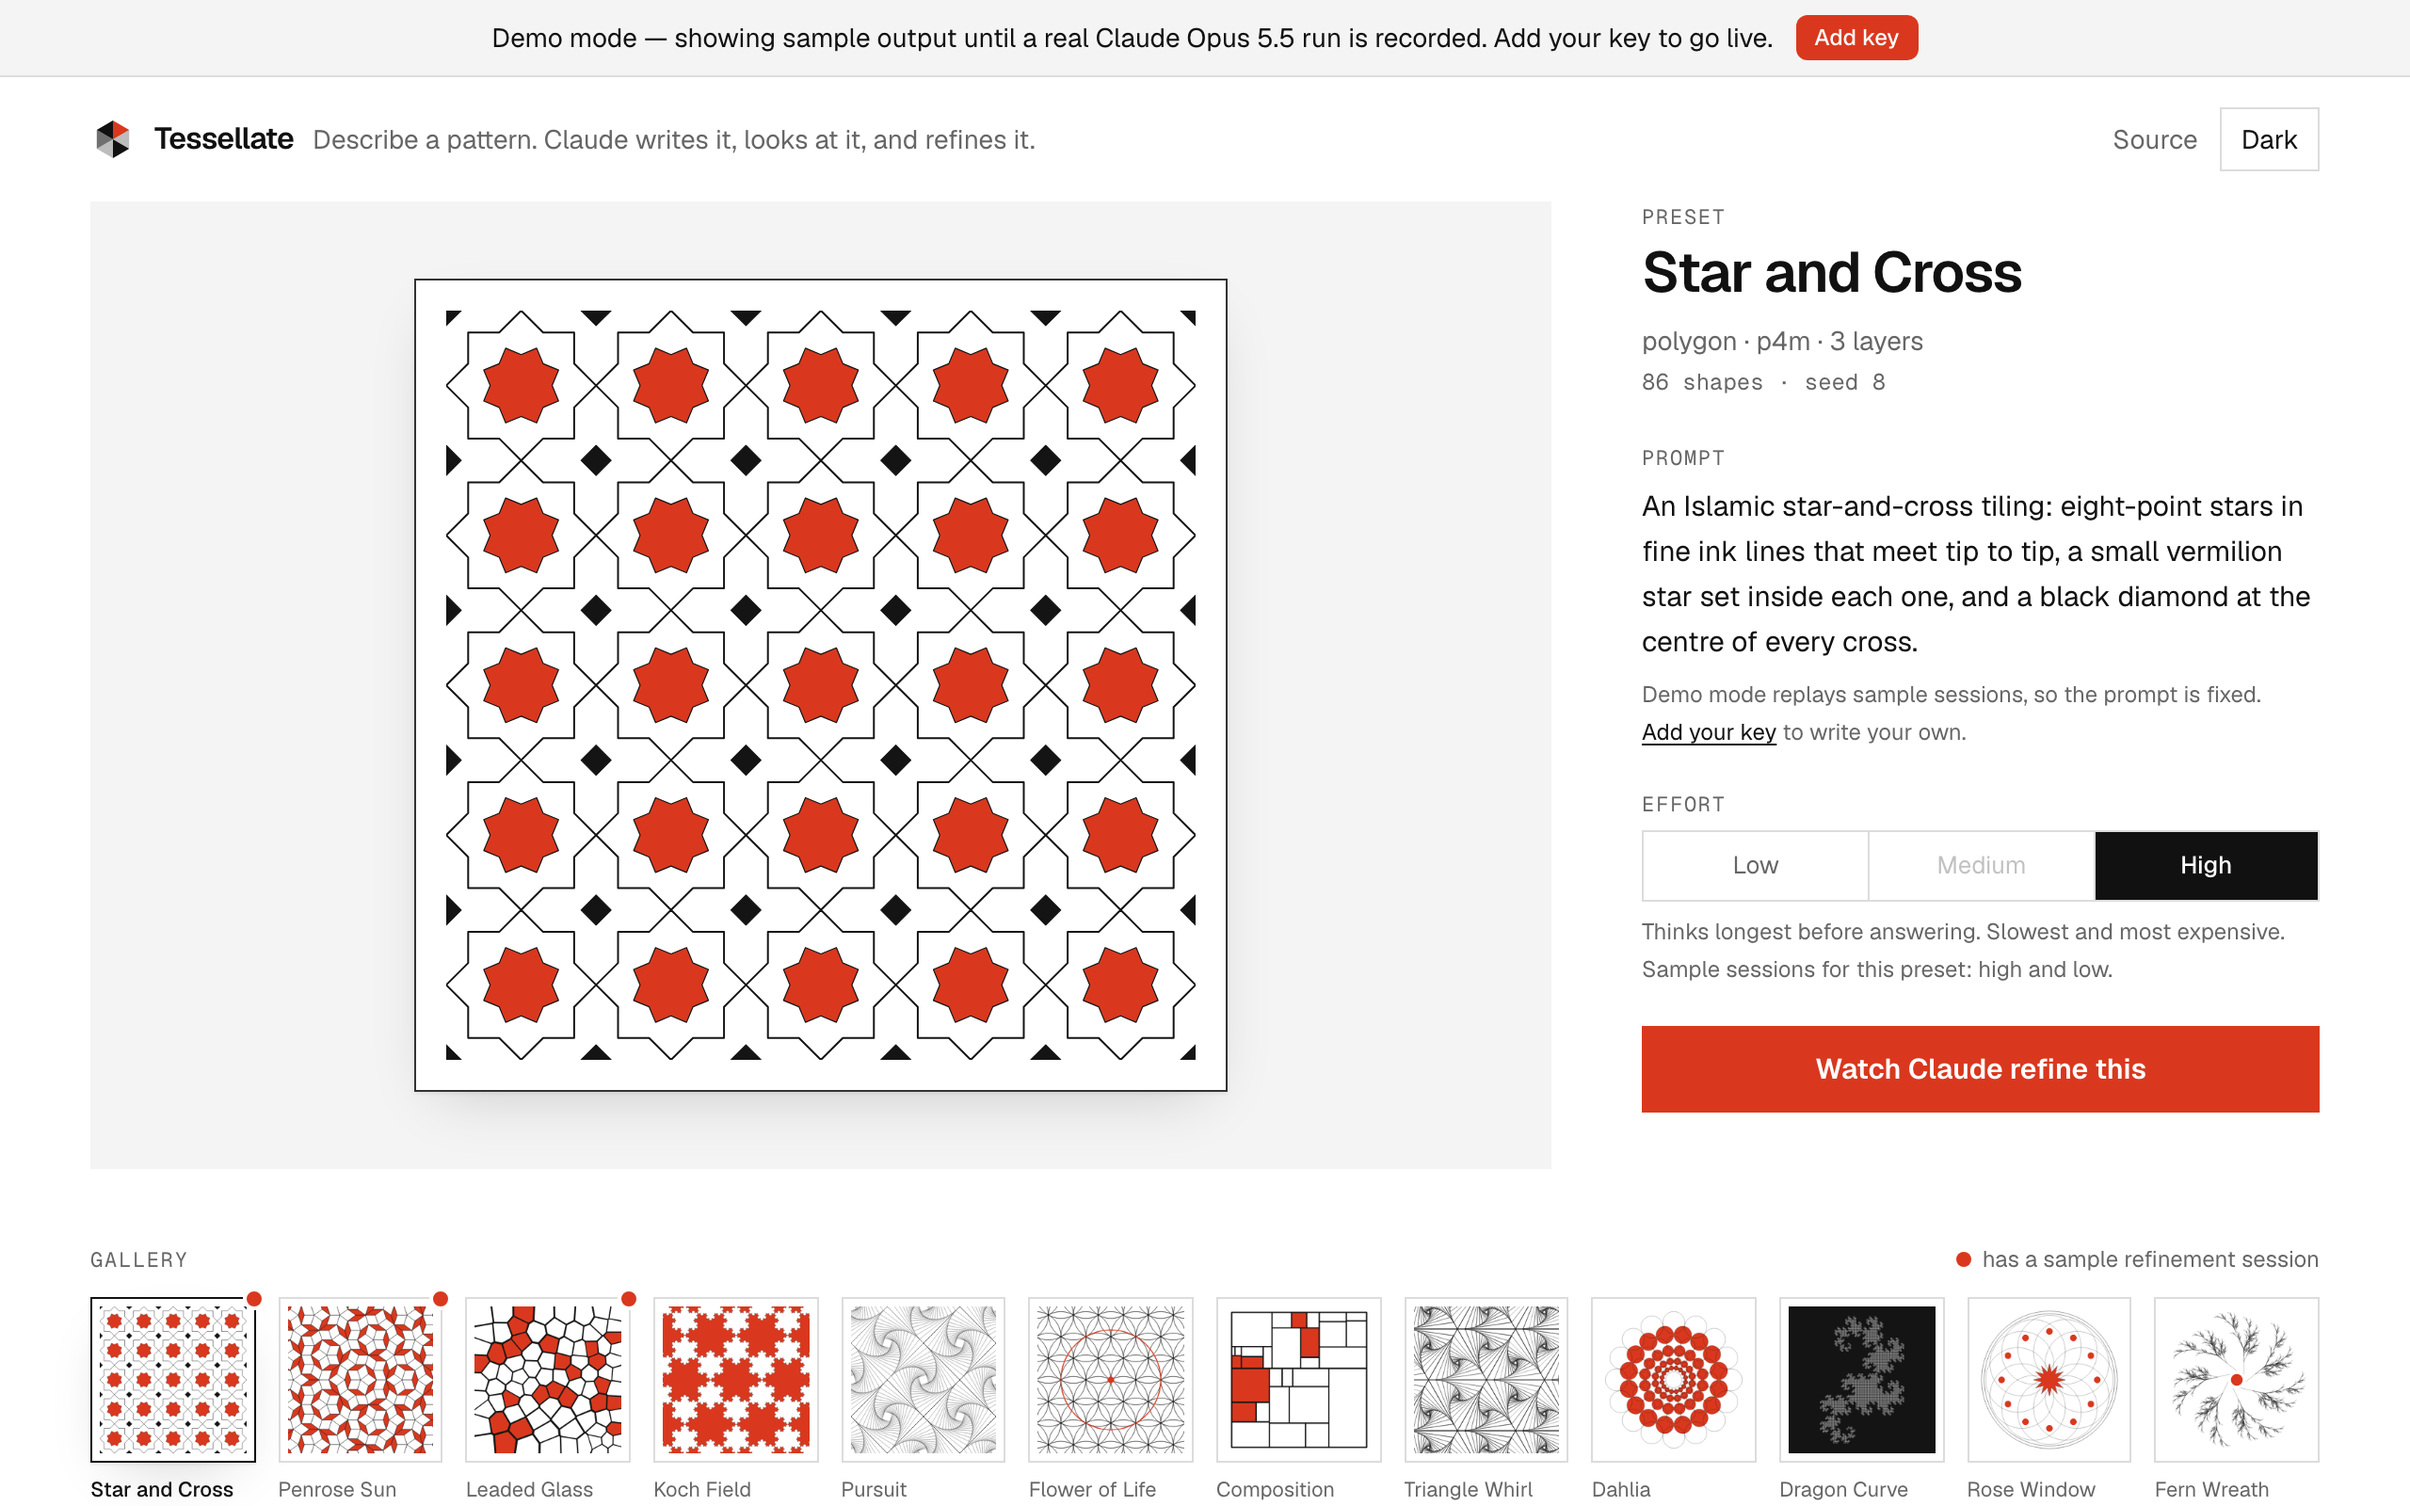
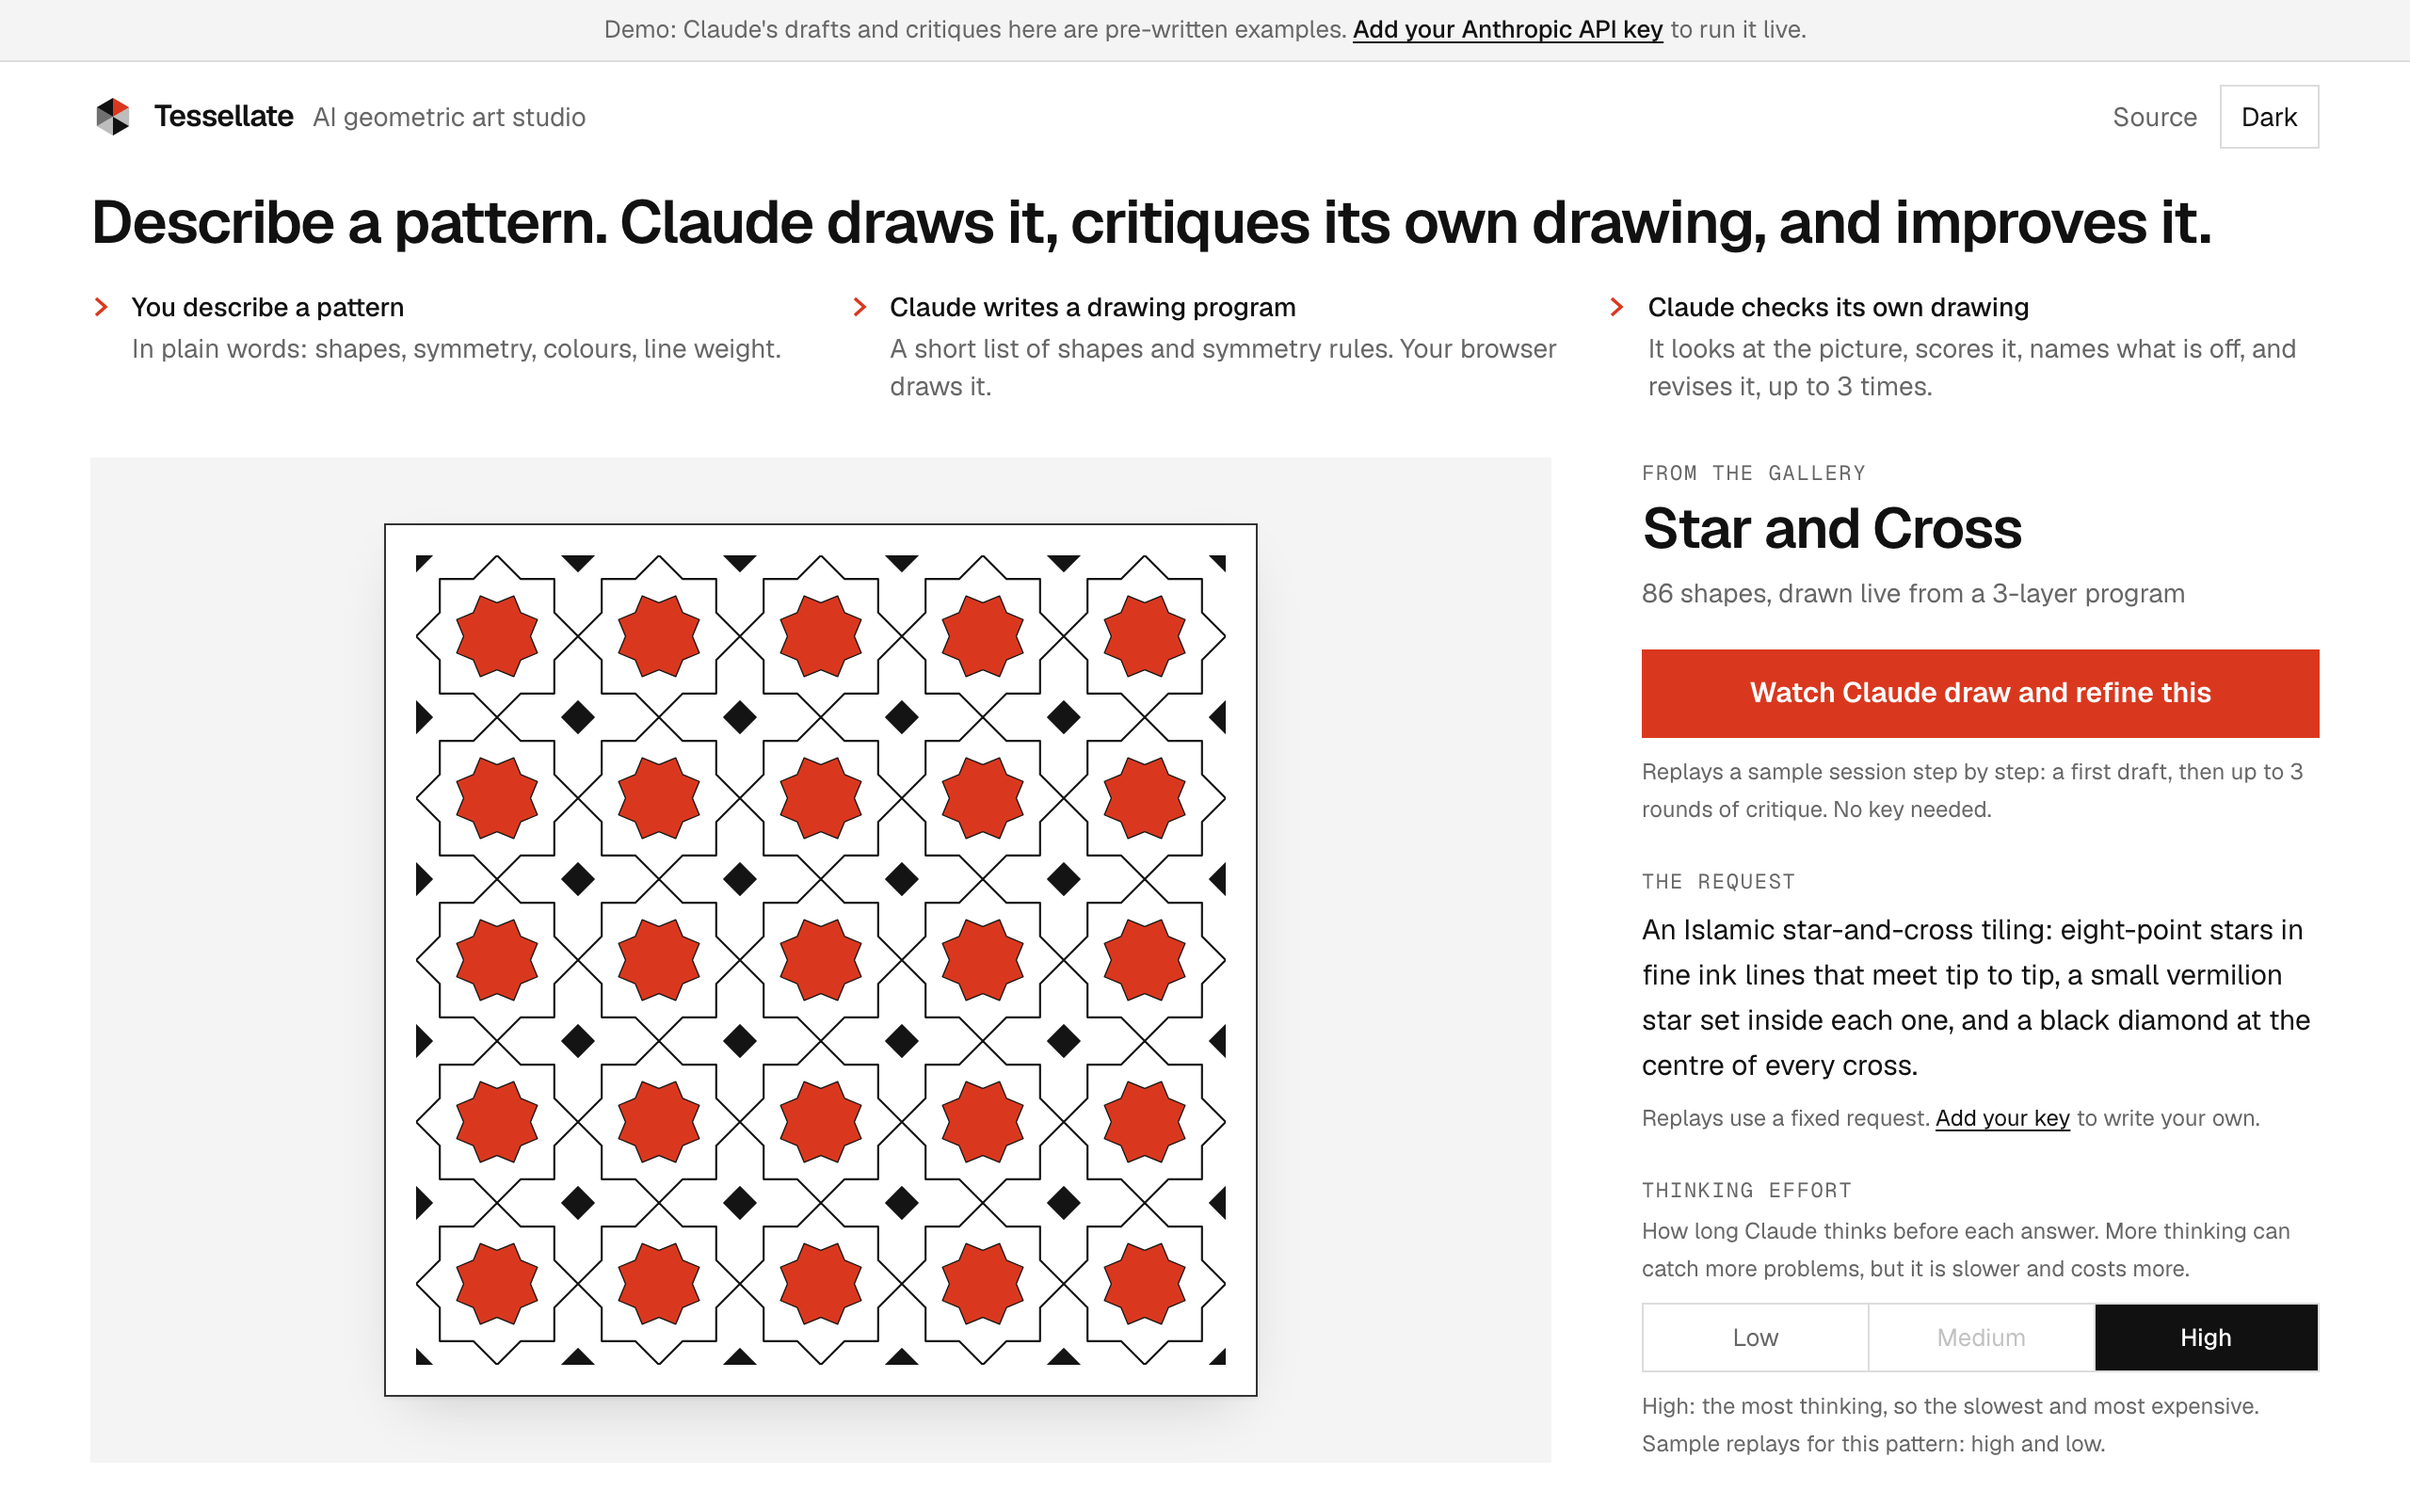
docs: plain-English README top, no dead demo links, retaken screenshots
The README now opens with a plain pitch, the "Live demo: coming soon"
badge (linking to Run locally) in place of the undeployed vercel.app
links, a captioned hero of a finished replay, and a short "What it does".
"Try it" shows the GIF and the local commands. The phone-fold limitation
is removed because it is fixed, and two engineering lines are made exact
(the match score is the model's judgement; the cost line shows dollars and
tokens). All screenshots and the GIF are retaken.

Changed region(s): [[0.0312, 0.0625, 0.9688, 1.0], [0.2188, 0.0, 0.8125, 0.0625], [0.875, 0.0625, 0.9688, 0.125]]

diff --git a/README.md b/README.md
@@ -1,26 +1,42 @@
 # Tessellate
 
-> Describe a pattern in words. Claude Opus 5.5 writes it in a small geometry language, the app renders it, Claude looks at the render, and revises the program until it matches.
+Describe a pattern in words, and Claude turns it into geometric art: it writes the pattern as a small drawing program, looks at the picture it made, critiques it, and improves it.
 
 [![CI](https://github.com/davezagin-max/tessellate/actions/workflows/ci.yml/badge.svg)](https://github.com/davezagin-max/tessellate/actions/workflows/ci.yml)
 [![License: MIT](https://img.shields.io/badge/license-MIT-blue.svg)](LICENSE)
-[![Live demo](https://img.shields.io/badge/demo-live-brightgreen.svg)](https://tessellate.vercel.app)
+[![Live demo: coming soon](https://img.shields.io/badge/live%20demo-coming%20soon-lightgrey.svg)](#run-locally)
 
-![A refinement session in Tessellate: first draft, two revisions, and the critique and score for each](docs/hero.png)
+![Tessellate after one click: the headline and three steps at the top, then a first draft and two revisions side by side, each with a match score out of 10 and a list of what matches and what is off](docs/hero.png)
 
-![The session replaying step by step](docs/demo.gif)
+*One click on the first screen replays a session. Each column is one drawing with its match score: the first draft scores 4/10 (the stars float apart, and there are no black diamonds); two rounds of critique and revision later, it scores 9/10. This replay is a hand-written sample (see below); the drawings are real.*
 
-## Try it in 10 seconds
+## What it does
 
-**[Open the live demo](https://tessellate.vercel.app)**: no key, no sign-up. A preset is already drawn. Press **Watch Claude refine this** to replay a session: a first draft, then up to three reviews side by side, each with a score, what matches, what is off, and the exact changes made to the program. Then pick any of the 12 presets, drag a slider, and download a plotter-ready SVG.
+- **Turns a sentence into a drawing.** You describe a pattern, for example "eight-point stars in fine ink lines that meet tip to tip". Claude writes it as a short drawing program (shapes, symmetry, colours), and your browser draws it as crisp vector art.
+- **Checks its own work.** The app turns each drawing into a picture and shows it to Claude next to the original request. Claude scores how well it matches, lists what is off, and revises the program, up to three times.
+- **Lets you take over.** Twelve ready-made patterns, sliders for the numbers in the program, and downloads as PNG or as an SVG file a pen plotter or laser cutter can follow.
+- **Keeps the AI on a leash.** Code checks every program before it is drawn and caps its size, so nothing Claude (or you) writes can freeze the page. The list of what changed between drafts is computed by code, not taken from Claude's words.
 
-Demo mode replays sessions from fixtures. Add your own Anthropic key in the app to run it live with your own prompt.
+No API key existed while this was built, so the Claude sessions in the demo are hand-written examples, and the app labels them "sample" wherever they appear. The drawings in a replay are real: your browser draws each one from its program. Demo data in this commit is hand-written sample output; `pnpm record` replaces it with real Claude Opus 5.5 runs.
 
-Demo data in this commit is hand-written sample output; `pnpm record` replaces it with real Claude Opus 5.5 runs. The app labels it as a sample session everywhere it appears. The renders in a replay are real: each one is drawn in your browser from the program beside it.
+## Try it
 
-| Gallery | Tune by hand | Dark | Phone |
+The live demo is coming soon. Until then, this is the one-click tour: a pattern is already drawn, and **Watch Claude draw and refine this** replays a session step by step, with a status line saying what is happening.
+
+![The replay: a first draft appears, then each round adds Claude's score, what matches, what is off, and the revised drawing](docs/demo.gif)
+
+To run it yourself with no key (details in [Run locally](#run-locally)):
+
+```bash
+pnpm install
+pnpm dev
+```
+
+Then pick any of the 12 patterns in the gallery, drag a slider, or download a plotter-ready SVG. Add your own Anthropic API key in the app (the "Add your Anthropic API key" link at the top) to write your own request and run it live.
+
+| First screen | Tune by hand | Dark | Phone |
 | --- | --- | --- | --- |
-| ![The first screen: a preset and the gallery strip](docs/gallery.png) | ![Parameter sliders, validator read-out, and exports](docs/studio.png) | ![A Penrose session in the dark theme](docs/hero-dark.png) | ![The studio at 390 px wide](docs/mobile.png) |
+| ![The first screen: headline, three steps, a pattern, and the main button](docs/gallery.png) | ![Parameter sliders, the validator's read-out, and exports](docs/studio.png) | ![A Penrose session in the dark theme](docs/hero-dark.png) | ![The first screen at 390 px wide, with the main button visible](docs/mobile.png) |
 
 ## Why it's interesting
 
@@ -75,12 +91,12 @@ Generators: `polygon` (also stars, circles, lines), `lsystem`, `voronoi`, `penro
 | Structured outputs for the program and for the review | The answer is parsed straight into the language's schema. The schema carries no bounds (the API rejects them), so a deterministic validator clamps and checks after parsing. |
 | Vision on its own output | Writing geometry blind is hard: stars that should touch float apart, the wrong tile gets the colour. The browser renders each program to a 1024 px PNG and sends it back with the original prompt, so the review is of what was actually drawn. |
 | An iterative loop, stateless per step | Draft, then up to three reviews, each returning `{ matches, gaps, score, done, revisedProgram }`. Every call is a fresh conversation with the prompt, the current program, and its image, so there is no long history to replay and any step can be recorded or replayed alone. Stop rules are code: `done`, an unchanged revision, or the limit. |
-| Effort control | A low / medium / high selector sits next to the cost meter and is passed explicitly on every call, so a visitor can trade thinking depth for cost and see the token count change. |
+| Effort control | A low / medium / high selector, explained in plain words in the UI, is passed explicitly on every call; the cost line under the run button shows what each run cost, in dollars and tokens, so a visitor can see effort trade thinking for cost. |
 | One self-correction pass | If a well-formed answer fails validation, the validator's messages are appended as the next user turn (the first turn, thinking blocks included, is sent back untouched) and Claude gets one retry. |
 | Prompt caching | The language reference is generated from the parameter table and is identical on every call, so the system prompt is sent with a cache breakpoint. |
 | Untrusted input and refusals | The visitor's prompt and the program under review are wrapped in tags the system prompt declares to be data. A refusal is returned as a normal result and shown as a clear message with what was spent so far. |
 
-Code computes the facts; the model reasons and explains. The score bar, shape counts, plot statistics, and the "changes to the program" list under each revision are all computed (the last one is a diff of the two programs), never taken from the model's prose.
+Code computes the facts; the model reasons and explains. Shape counts, plot statistics, and the "changes to the program" list under each revision are computed (the last one is a diff of the two programs), never taken from the model's prose. The match score is the model's own judgement, a structured field shown as returned.
 
 **Your key stays yours.** The app is bring-your-own-key. The key lives in your browser tab's memory (optionally `sessionStorage`), travels in an `x-anthropic-key` header to this app's own API route, and is used for that one request. The server never stores or logs it. Each live action shows its token count and cost.
 
@@ -122,7 +138,6 @@ CI runs the same checks plus a gitleaks secret scan on every push.
 - **Curves are polylines** (a circle is a 64-gon), which is what a plotter wants anyway.
 - **Plotter export** outlines a shape in its stroke colour (or its fill colour if it has no stroke), drops fills and opacity, and orders strokes greedily rather than optimally.
 - **Rendering runs on the main thread.** The cap bounds the worst case (in a 6,000-program fuzz run during review, the slowest accepted program built in about 130 ms), so I left out a Web Worker.
-- **On a phone the main button sits just below the first screen.** The artwork comes first.
 - Three effort levels are offered; `xhigh` and `max` are left out. Each step is one request, so there is no streamed progress text during a live call.
 - Rate limiting is in memory per server instance: enough to blunt abuse of a demo, not a global quota.
 
